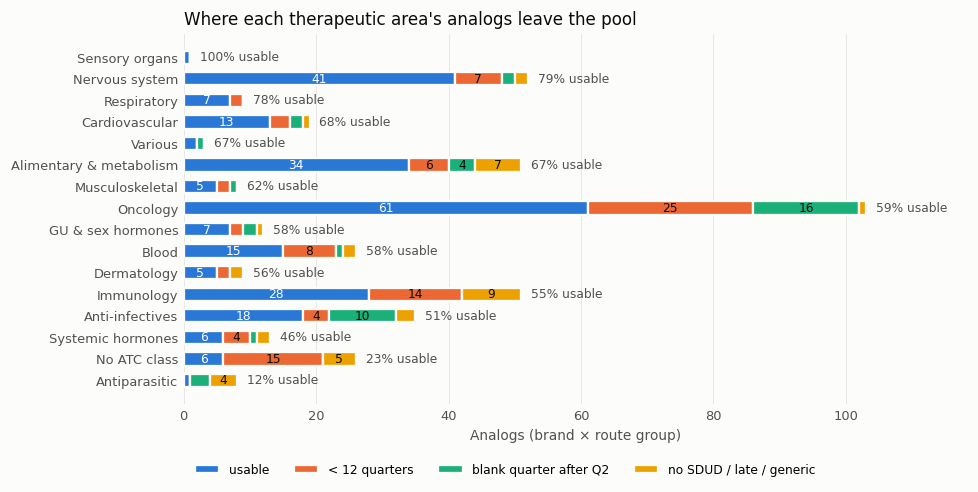
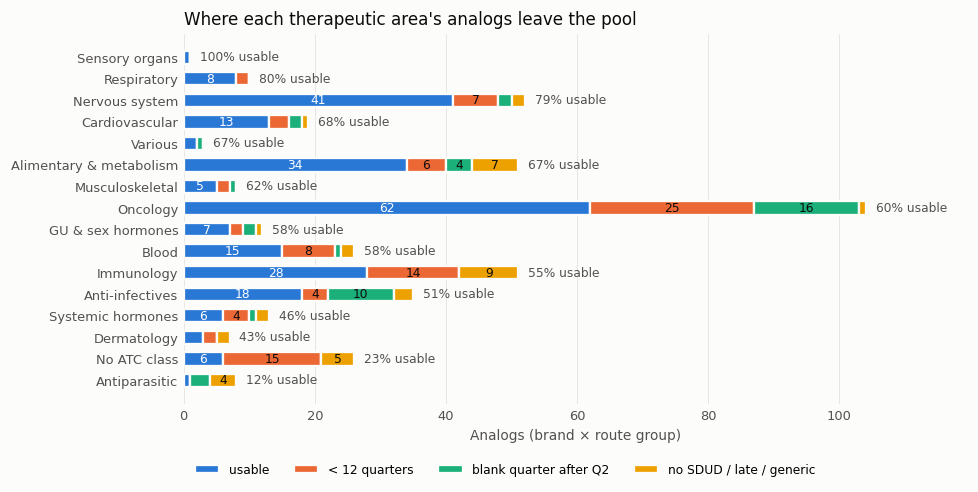
Update EDA write-ups for the ATC class fix
Numbers that moved when the notebooks were re-run on the fixed data (Jakafi
now Oncology, Daliresp Respiratory):
- eda_christina.md: oncology 62 of 104 usable, 41 of 62 weak fits; oncology
  medians at Q2/Q10/Q20; respiratory now has 8 usable analogs, so it joins the
  area tables and has the highest median p
- eda_gabrielle.md: usable share by area
- eda_joshua.md: oncology median peak, mid-volume oncology fits, rho values
- eda_grace.md: ATC note now points to the pipeline fix; its decision 6
  (fix it in the pipeline) is done and removed
- eda/synthesis: pool-by-area chart replaced with the re-run version

diff --git a/eda/eda_christina.md b/eda/eda_christina.md
@@ -10,10 +10,10 @@ Follows the write-up format in [README.md](README.md): **Question → Data → M
 
 | EDA | Notebook | Question | Headline | Feeds |
 |---|---|---|---|---|
-| Pool and survivorship | [launch_eda_christina.ipynb](launch_eda_christina.ipynb) §1 | What's in the usable pool, and who does it leave out? | 250 of 426 usable. Analogs dropped for blank quarters are tiny (median 442 lifetime Rx vs 34,367 usable). Oncology is the largest usable area (61) | Analog pool rule; scope question |
+| Pool and survivorship | [launch_eda_christina.ipynb](launch_eda_christina.ipynb) §1 | What's in the usable pool, and who does it leave out? | 250 of 426 usable. Analogs dropped for blank quarters are tiny (median 442 lifetime Rx vs 34,367 usable). Oncology is the largest usable area (62) | Analog pool rule; scope question |
 | Curves by area | §2 | Do launch shapes differ by area and route? | Every large area reaches 50% of peak at a median Q5–Q8. Oncology starts faster and flattens; immunology and sc start slower, then catch up | Scope question (one area or two); analog weighting |
 | Q20 peak | §3 | Is the Q20 peak real, or COVID enrollment growth? | No COVID signal overall (43% peak at Q20 whether Q16–Q20 overlaps COVID or not). Immunology may be the exception (5 of 6), too few to tell | Open question: Q0–Q20 peak |
-| Bass fit quality | §4 | Which Bass fits can be trusted? | 100 of 250 usable fits are weak. Oncology is worst (40 of 61 weak): cumulative Bass can't follow rise-plateau-decline | `bass_fits`; step-4 review |
+| Bass fit quality | §4 | Which Bass fits can be trusted? | 100 of 250 usable fits are weak. Oncology is worst (41 of 62 weak): cumulative Bass can't follow rise-plateau-decline | `bass_fits`; step-4 review |
 | Label expansion and flags | §5 | How common are the distortion flags, and does an expansion change the curve? | Enrollment-shock flag on for 91%, expansion flag for 55%. Curves without an expansion are front-loaded (0.47 of peak at Q5 vs 0.35 with one) | Distortion flags as filters |
 | Seed brands | §6 | Do the 8 seed brands' curves and fits look as expected? | Otezla, Cosentyx, Taltz, Tremfya peak at Q20. Taltz and Tremfya have m at the cap (p, q not identified). Siliq peaks at Q11 on tiny volume | Seed-brand evidence review |
 
@@ -40,8 +40,8 @@ Follows the write-up format in [README.md](README.md): **Question → Data → M
 
 **Findings.**
 - **426 → 250 usable.** Left out: 94 with < 12 quarters (almost all approved 2023+), 43 with a blank quarter after Q2, 20 with no Medicaid Rx, 19 late launches. The generic rule removes none.
-- **Blank-quarter dropouts are tiny brands:** median 442 lifetime Medicaid Rx and peak 57 TRx a quarter, vs 34,367 and 1,264 for usable analogs. 37% of them are oncology, against 24% of the usable pool.
-- **Usable by area:** oncology 61 of 103, nervous system 41 of 52, alimentary & metabolism 34 of 51, immunology 28 of 51 (about half sc), anti-infectives 18 of 35. Only 6 of the 26 analogs with no ATC class are usable.
+- **Blank-quarter dropouts are tiny brands:** median 442 lifetime Medicaid Rx and peak 57 TRx a quarter, vs 34,367 and 1,264 for usable analogs. 37% of them are oncology, against 25% of the usable pool.
+- **Usable by area:** oncology 62 of 104, nervous system 41 of 52, alimentary & metabolism 34 of 51, immunology 28 of 51 (about half sc), anti-infectives 18 of 35. Only 6 of the 26 analogs with no ATC class are usable.
 - **Partial suppression is almost universal:** 94% of usable analogs have at least one quarter with a suppressed row. That quarter's TRx is the sum of the visible rows.
 
 **What it means for the tool.** The usable pool is in practice 2010–2022 launches that got Medicaid volume. Small and niche oncology launches are under-represented.
@@ -59,11 +59,11 @@ Follows the write-up format in [README.md](README.md): **Question → Data → M
 
 **Data.** `launch_curves.csv` (share of peak, Q0–Q20) for the 250 usable analogs, with area and route from `analog_features.csv`.
 
-**Method.** Small multiples for the 7 areas with ≥ 8 usable analogs: every curve in gray, the median and interquartile band in color. Median curves for oncology vs immunology and oral vs sc. Speed to peak = first quarter a curve reaches 50% and 80% of its peak.
+**Method.** Small multiples for the 8 areas with ≥ 8 usable analogs: every curve in gray, the median and interquartile band in color. Median curves for oncology vs immunology and oral vs sc. Speed to peak = first quarter a curve reaches 50% and 80% of its peak.
 
 **Findings.**
 - **Time to 50% of peak is similar everywhere:** median Q5 (anti-infectives) to Q8 (blood, cardiovascular, immunology). Time to 80% is Q12–Q16.
-- **Oncology vs immunology:** oncology starts faster (median 0.26 of peak at Q2 vs 0.14) and is level with immunology by Q10 (0.68 vs 0.69). At Q20 oncology's median is 0.92, because many curves peak earlier and decline; immunology's is 1.0, still climbing.
+- **Oncology vs immunology:** oncology starts faster (median 0.25 of peak at Q2 vs 0.14) and is level with immunology by Q10 (0.66 vs 0.69). At Q20 oncology's median is 0.93, because many curves peak earlier and decline; immunology's is 1.0, still climbing.
 - **Oral vs sc:** sc starts slower (0.30 of peak at Q5 vs 0.44) and catches up by Q16 (0.83 vs 0.82).
 - **Anti-infectives are the most spread out:** short courses and cures give rise-and-fall curves (median about 0.76 at Q20, wide band).
 
@@ -71,7 +71,7 @@ Follows the write-up format in [README.md](README.md): **Question → Data → M
 
 **Open checks.**
 - sc includes clinic-administered products (no flag yet). Re-run once `sc_clinic` is done.
-- Areas with < 8 usable analogs (respiratory, dermatology, hormones, musculoskeletal) aren't shown.
+- Areas with < 8 usable analogs (dermatology, hormones, musculoskeletal) aren't shown.
 
 ---
 
@@ -111,9 +111,9 @@ Follows the write-up format in [README.md](README.md): **Question → Data → M
 
 **Findings.**
 - **100 of 250 weak:** 77 with R² < 0.9, 23 with a parameter on a bound. 27 have m at the 5.0 cap (still climbing, so m isn't identified).
-- **Oncology is the problem:** 40 of 61 weak, median R² 0.89. Immunology 9 of 28 weak (median R² 0.97), nervous system 7 of 41 (0.98), anti-infectives 11 of 18 (0.83).
+- **Oncology is the problem:** 41 of 62 weak, median R² 0.89. Immunology 9 of 28 weak (median R² 0.97), nervous system 7 of 41 (0.98), anti-infectives 11 of 18 (0.83).
 - **The worst fits are rise-and-fall curves,** with R² near or below 0: Zepatier, Harvoni (HCV cures), Xofluza (flu), Caprelsa, Cotellic, Zydelig (oncology).
-- **Median q** ranges from 0.15 (immunology, anti-infectives) to 0.27 (alimentary & metabolism); oncology has the highest median p (0.049).
+- **Median q** ranges from 0.12 (respiratory, 8 analogs) to 0.27 (alimentary & metabolism); respiratory has the highest median p (0.078), then oncology (0.047).
 - Good fits spread widely: p from about 0.002 to 0.2 and q from 0 to 1.2, with no clean separation between areas.
 
 **What it means for the tool.** A cumulative Bass curve fits curves that keep climbing, but not those that decline. For oncology, p and q from these fits would understate the spread (decision 2). The step-4 review should show the weak-fit flag next to every analog.

diff --git a/eda/eda_joshua.md b/eda/eda_joshua.md
@@ -14,7 +14,7 @@ Follows the write-up format in [README.md](README.md): **Question · Data · Met
 
 1. **Add a low-volume flag to `analog_features`** (e.g. peak Medicaid TRx < 300 a quarter) and show it next to the fit. Below that, a low R² is what counting noise produces on its own, so it says little about the analog's shape.
 2. **Use Medicaid volume as a similarity feature** in `analog_recommendations`. Small and large analogs have different shapes (small: higher p, lower q, earlier peak), so a small-population target should be matched to small analogs and the reverse.
-3. **Don't treat oncology as a shape Bass can't fit.** Mid-volume oncology fits as well as any other area (6% with R² < 0.9). Re-word the oncology finding in `launch_eda` §4 when the EDAs are combined. Another curve form is still worth trying for the rise-and-fall curves.
+3. **Don't treat oncology as a shape Bass can't fit.** Mid-volume oncology fits as well as any other area (5% with R² < 0.9). Re-word the oncology finding in `launch_eda` §4 when the EDAs are combined. Another curve form is still worth trying for the rise-and-fall curves.
 
 ---
 
@@ -32,12 +32,12 @@ Follows the write-up format in [README.md](README.md): **Question · Data · Met
 - **Shrink-and-refit test** (noise vs real shape): each large analog's real curve scaled to a peak of 100, 300 and 1,000 TRx; counting noise added (patients ~ Poisson(TRx / 3), 3 fills each); quarters < 11 suppressed; curves with a blank after Q2 dropped, as the enough-data rule would; refitted with the pipeline's `fit()`. 5 draws per analog per volume.
 
 **Findings.**
-- **Oncology is the smallest area in Medicaid:** median peak 386 TRx, 70% small, no large analogs. Nervous system is the largest (median 13,317).
+- **Oncology is the smallest area in Medicaid:** median peak 397 TRx, 69% small, no large analogs. Nervous system is the largest (median 13,317).
 - **Fit quality rises with volume** (ρ = 0.62). R² < 0.9 in 74% of the smallest fifth (peak ≤ 322) vs 10% of the largest.
-- **The trend holds inside every area**, most strongly in oncology (ρ = 0.80). Mid-volume oncology: R² < 0.9 in 1 of 18 fits (6%), vs 32 of 43 (74%) small oncology.
+- **The trend holds inside every area**, most strongly in oncology (ρ = 0.81). Mid-volume oncology: R² < 0.9 in 1 of 19 fits (5%), vs 32 of 43 (74%) small oncology.
 - **Noise alone reproduces it.** Large curves shrunk to a peak of 100 / 300 / 1,000 have R² < 0.9 in 94% / 33% / 12% of fits; real analogs at about those volumes: 74% / 32% / 20%.
 - **Weak fits with a parameter on a bound** (mostly m at the cap, curves still climbing) are not a volume effect: 4–16% in every fifth.
-- **Small drugs start faster and peak sooner, and noise doesn't explain it.** Median quarter to 50% of peak: Q5 small, Q8 mid, Q9 large. Share of peak at Q5: 0.51 small vs 0.27 large; the shrunk large curves stay at 0.29–0.36. 27% of small drugs rise and fall vs 8% of large. It holds within oncology (ρ = −0.56), immunology (−0.61) and other areas (−0.35).
+- **Small drugs start faster and peak sooner, and noise doesn't explain it.** Median quarter to 50% of peak: Q5 small, Q8 mid, Q9 large. Share of peak at Q5: 0.51 small vs 0.27 large; the shrunk large curves stay at 0.29–0.36. 27% of small drugs rise and fall vs 8% of large. It holds within oncology (ρ = −0.57), immunology (−0.61) and other areas (−0.36).
 - **Volume shifts the Bass parameters**, even among good fits: small p 0.058 / q 0.09, mid 0.025 / 0.21, large 0.019 / 0.19.
 
 **What it means for the tool.** Two things happen at low volume. Fits get noisy, which a volume flag should explain to the forecaster (decision 1). Separately, small drugs follow a faster-start, earlier-peak shape, so analog size should be part of matching (decision 2). A likely reason, not tested here, is that small Medicaid drugs treat small, already-identified populations (rare disease, biomarker-selected cancers) who start treatment quickly.

diff --git a/eda/eda_grace.md b/eda/eda_grace.md
@@ -6,7 +6,7 @@ Follows the write-up format in [README.md](README.md): **Question → Data → M
 
 **Shared definitions** (as in `launch_eda`). *Usable* = the end of the `checks.md` funnel, 250 of 426 analogs. *Area* = ATC level 1, with L split into **Oncology** (L01, L02) and **Immunology** (L03, L04). Provisional quarters (the latest 2) are left out of everything.
 
-**ATC classes corrected for 11 analogs.** RxClass returns codes for every product with the ingredient, so 25 analogs have several ATC codes, and the EDAs use the first. For 11 usable analogs the first code comes from a combination pill or another route: the SGLT2 inhibitors (Farxiga, Jardiance, Invokana, Steglatro) and DPP-4 inhibitors (Tradjenta, Nesina) read as "combinations", the GLP-1s Victoza and Adlyxin as insulins, Jakafi and Daliresp as dermatology (so their *area* is Dermatology in every EDA), and Zytiga as a PARP inhibitor. Both notebooks set these 11 to their own class; the pipeline should do the same (see decision 6).
+**ATC classes.** RxClass returned codes for every product with the ingredient, so some analogs carried a class from a combination pill or a topical form: the SGLT2 and DPP-4 inhibitors read as "combinations", Victoza and Adlyxin as insulins, Jakafi and Daliresp as dermatology, Zytiga as a PARP inhibitor. Found in this EDA and fixed in the pipeline on 2026-10-23 (`main`, decision log); the notebooks now read the corrected classes.
 
 ## Summary
 
@@ -22,7 +22,6 @@ Follows the write-up format in [README.md](README.md): **Question → Data → M
 3. **Don't give ATC class, area or route much weight in the similarity score as they stand.** As group medians they don't predict a held-out analog's first 3 years; ATC 4 makes it worse. Re-test once label-read features (line of therapy, competitors, dosing) are approved.
 4. **Show the analogs' spread on the analog card and in step 4, not one borrowed curve.** First-3-year shapes differ by 0.22 of peak between two analogs on median.
 5. **If volume becomes a similarity feature (`volume_vs_shape` decision 2), use a pre-launch proxy** such as the expected patient population, since a target drug's Medicaid volume isn't known before launch.
-6. **Fix multi-code ATC classes in the pipeline** (`class_narrow`, `class_broad`): keep the analog's own class, not codes from combination products or other routes. Until then, every EDA's class and area columns are wrong for the 11 analogs above, including Jakafi and Daliresp counted as Dermatology.
 
 ---
 

diff --git a/eda/eda_gabrielle.md b/eda/eda_gabrielle.md
@@ -35,7 +35,7 @@ Follows the write-up format in [README.md](README.md). Each EDA below uses the s
 - **426 → 250 usable** (oral 202 of 332, 61%; sc 48 of 94, 51%). The generic-entry rule removes none.
 - **The enough-data rule does almost all the work: it drops 137.** 94 have < 12 quarters (88 of them approved 2023 or later); 43 have a blank quarter after Q2.
 - **By era:** 80% usable for 2010–13, 85% for 2014–17, 73% for 2018–21, **8% for 2022–25**.
-- **By area** (ATC 1, with L split into oncology and immunology, as in `launch_eda`): nervous system 79% usable, respiratory 78%, cardiovascular 68%, alimentary & metabolism 67%, oncology 59% (61 of 103), blood 58%, dermatology 56%, immunology 55% (28 of 51), anti-infectives 51%, systemic hormones 46%, no ATC class 23%. Missing ATC classes are mostly recent approvals that would drop anyway.
+- **By area** (ATC 1, with L split into oncology and immunology, as in `launch_eda`): respiratory 80% usable, nervous system 79%, cardiovascular 68%, alimentary & metabolism 67%, oncology 60% (62 of 104), blood 58%, immunology 55% (28 of 51), anti-infectives 51%, systemic hormones 46%, dermatology 43%, no ATC class 23%. Missing ATC classes are mostly recent approvals that would drop anyway.
 - **Weakest groups: sc oncology (1 of 7 usable) and sc immunology (12 of 26).** sc oncology is recent clinic-administered bispecifics (Tecvayli, Talvey, Elrexfio, Epkinly) and Lunsumio. sc immunology loses late sc versions of older drugs (Actemra, Entyvio, Benlysta) and Granix, six recent launches (e.g. Bimzelx, Omvoh) and four with no Medicaid data (e.g. Spevigo, Saphnelo).
 - **Dropped analogs are small:** among 2010–2021 approvals, median lifetime Medicaid Rx is 442 for dropped vs 37,556 for usable. Dropped for blank quarters: the HCV orals (Sovaldi, Incivek, Victrelis, Olysio, Daklinza, Viekira Pak) and niche oncology / rare-disease orals (e.g. Farydak, Tepmetko, Exkivity).
 
